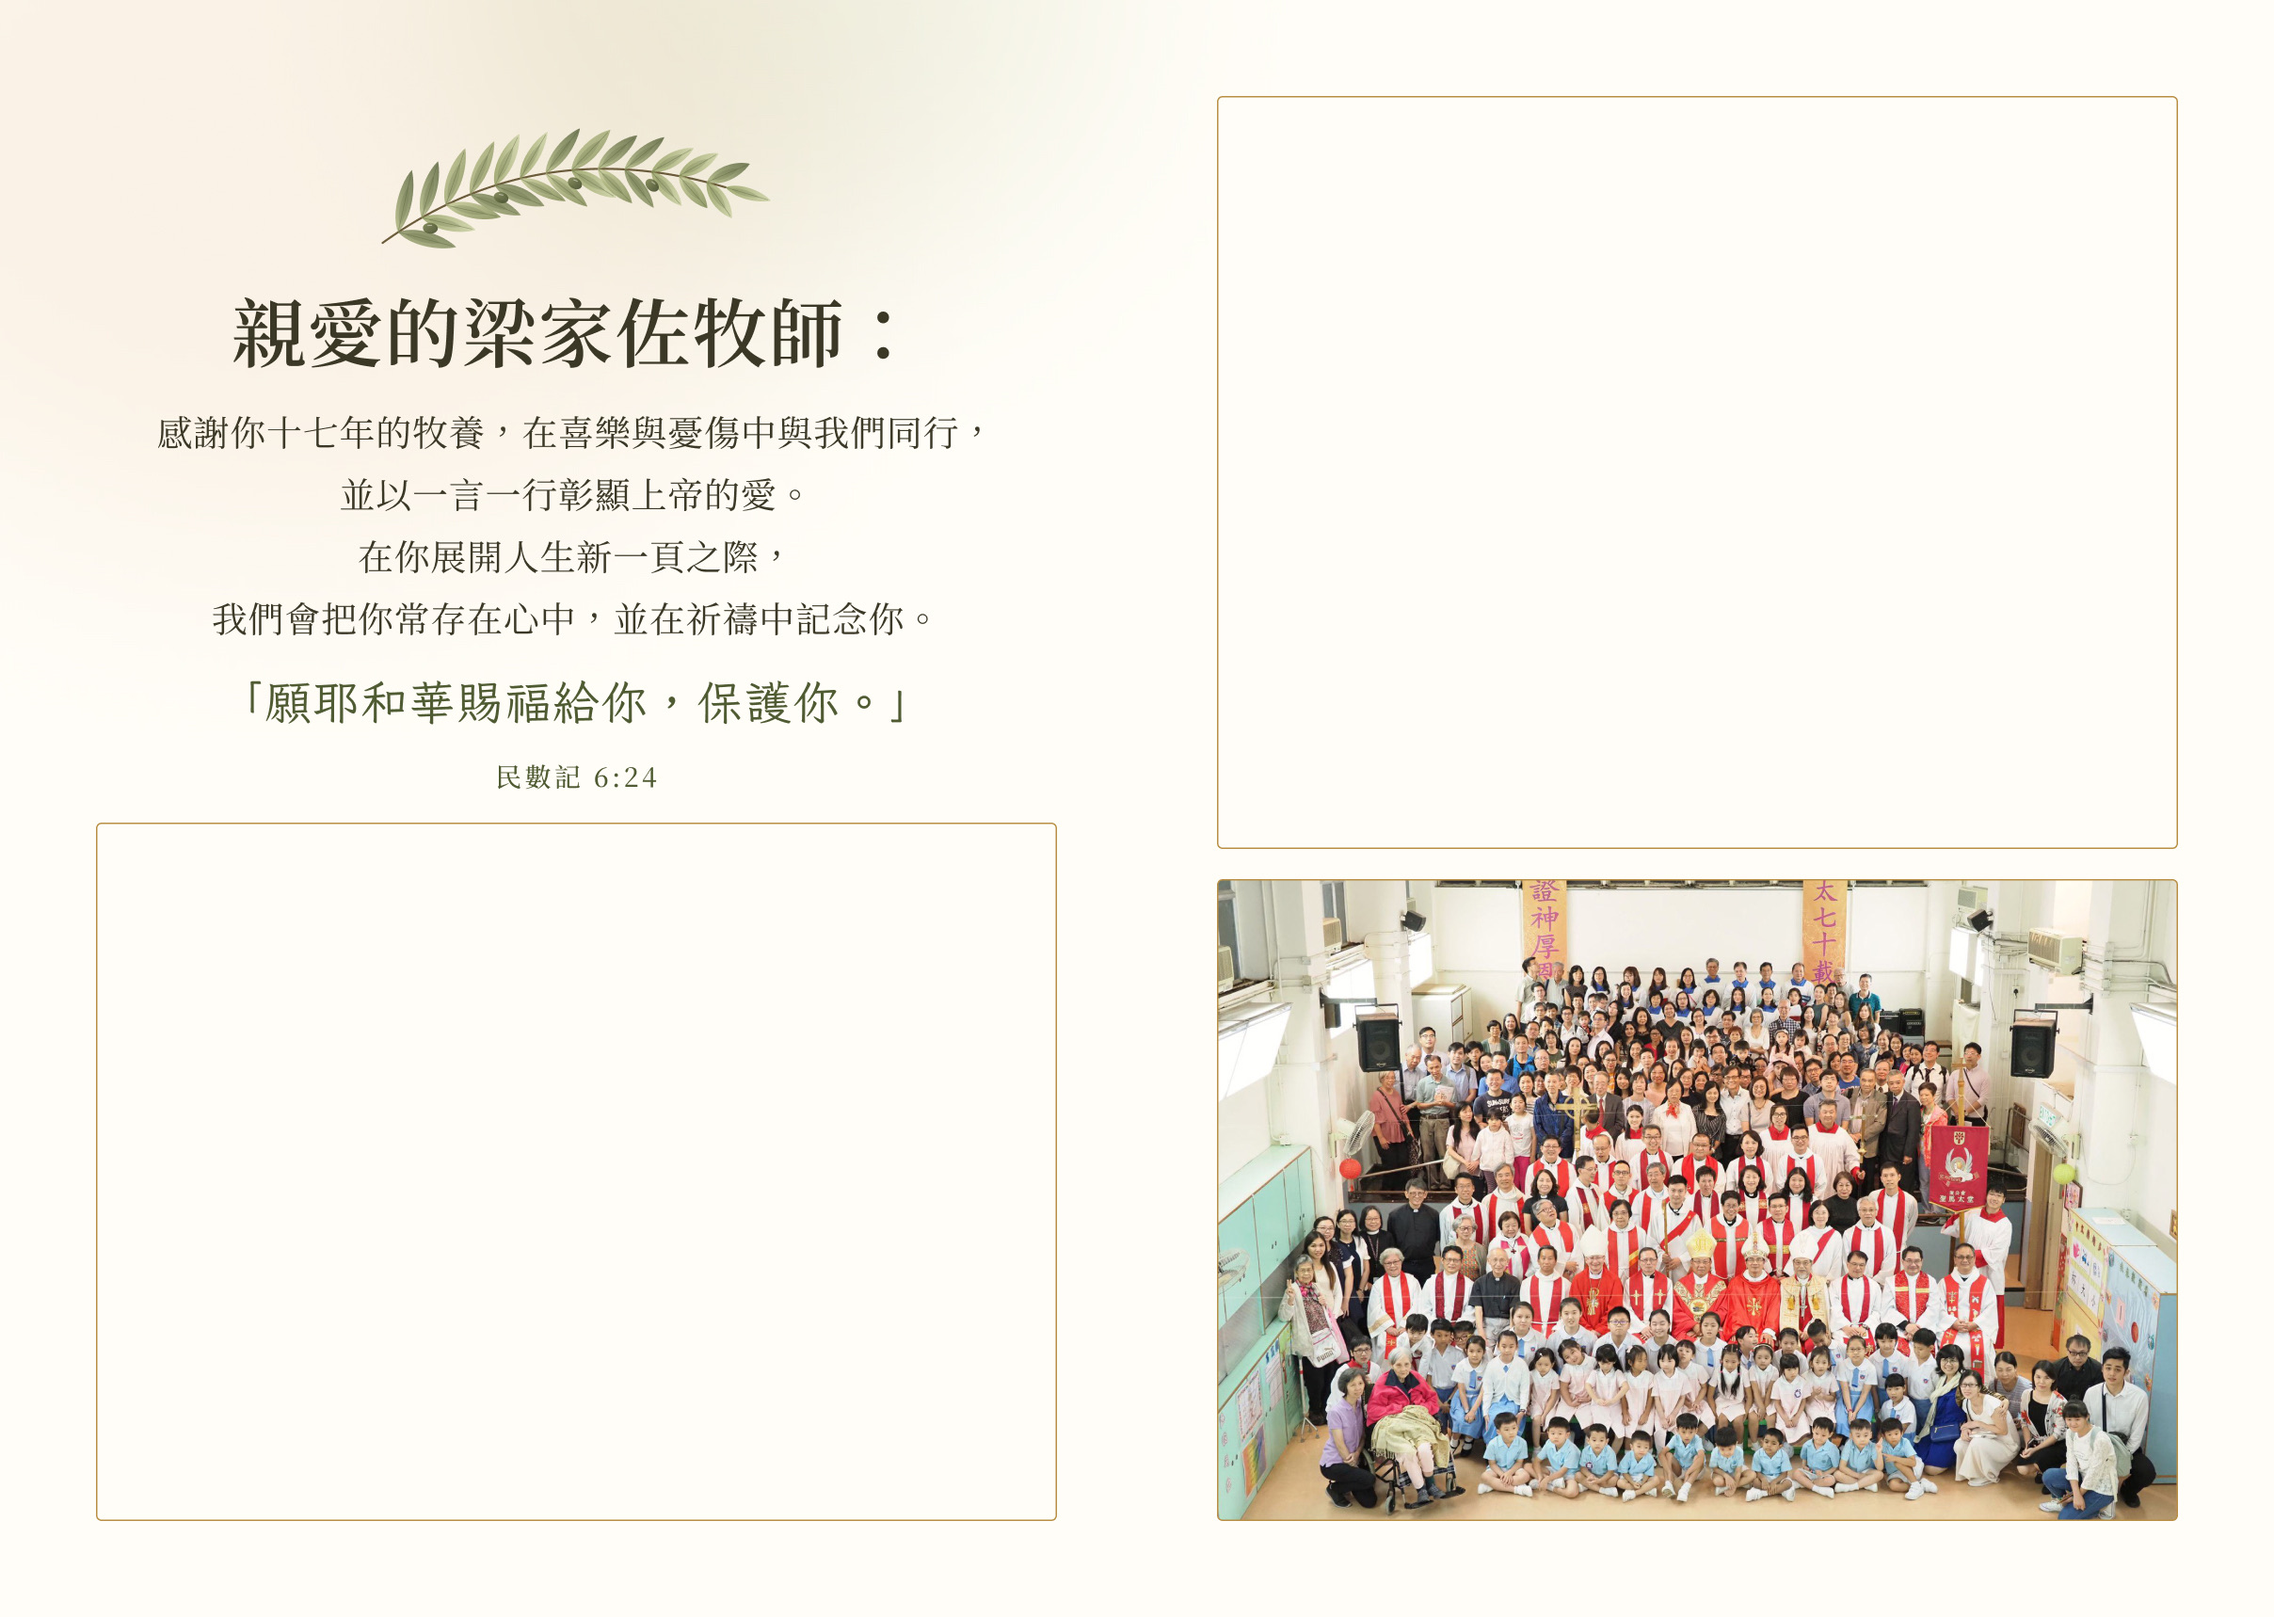
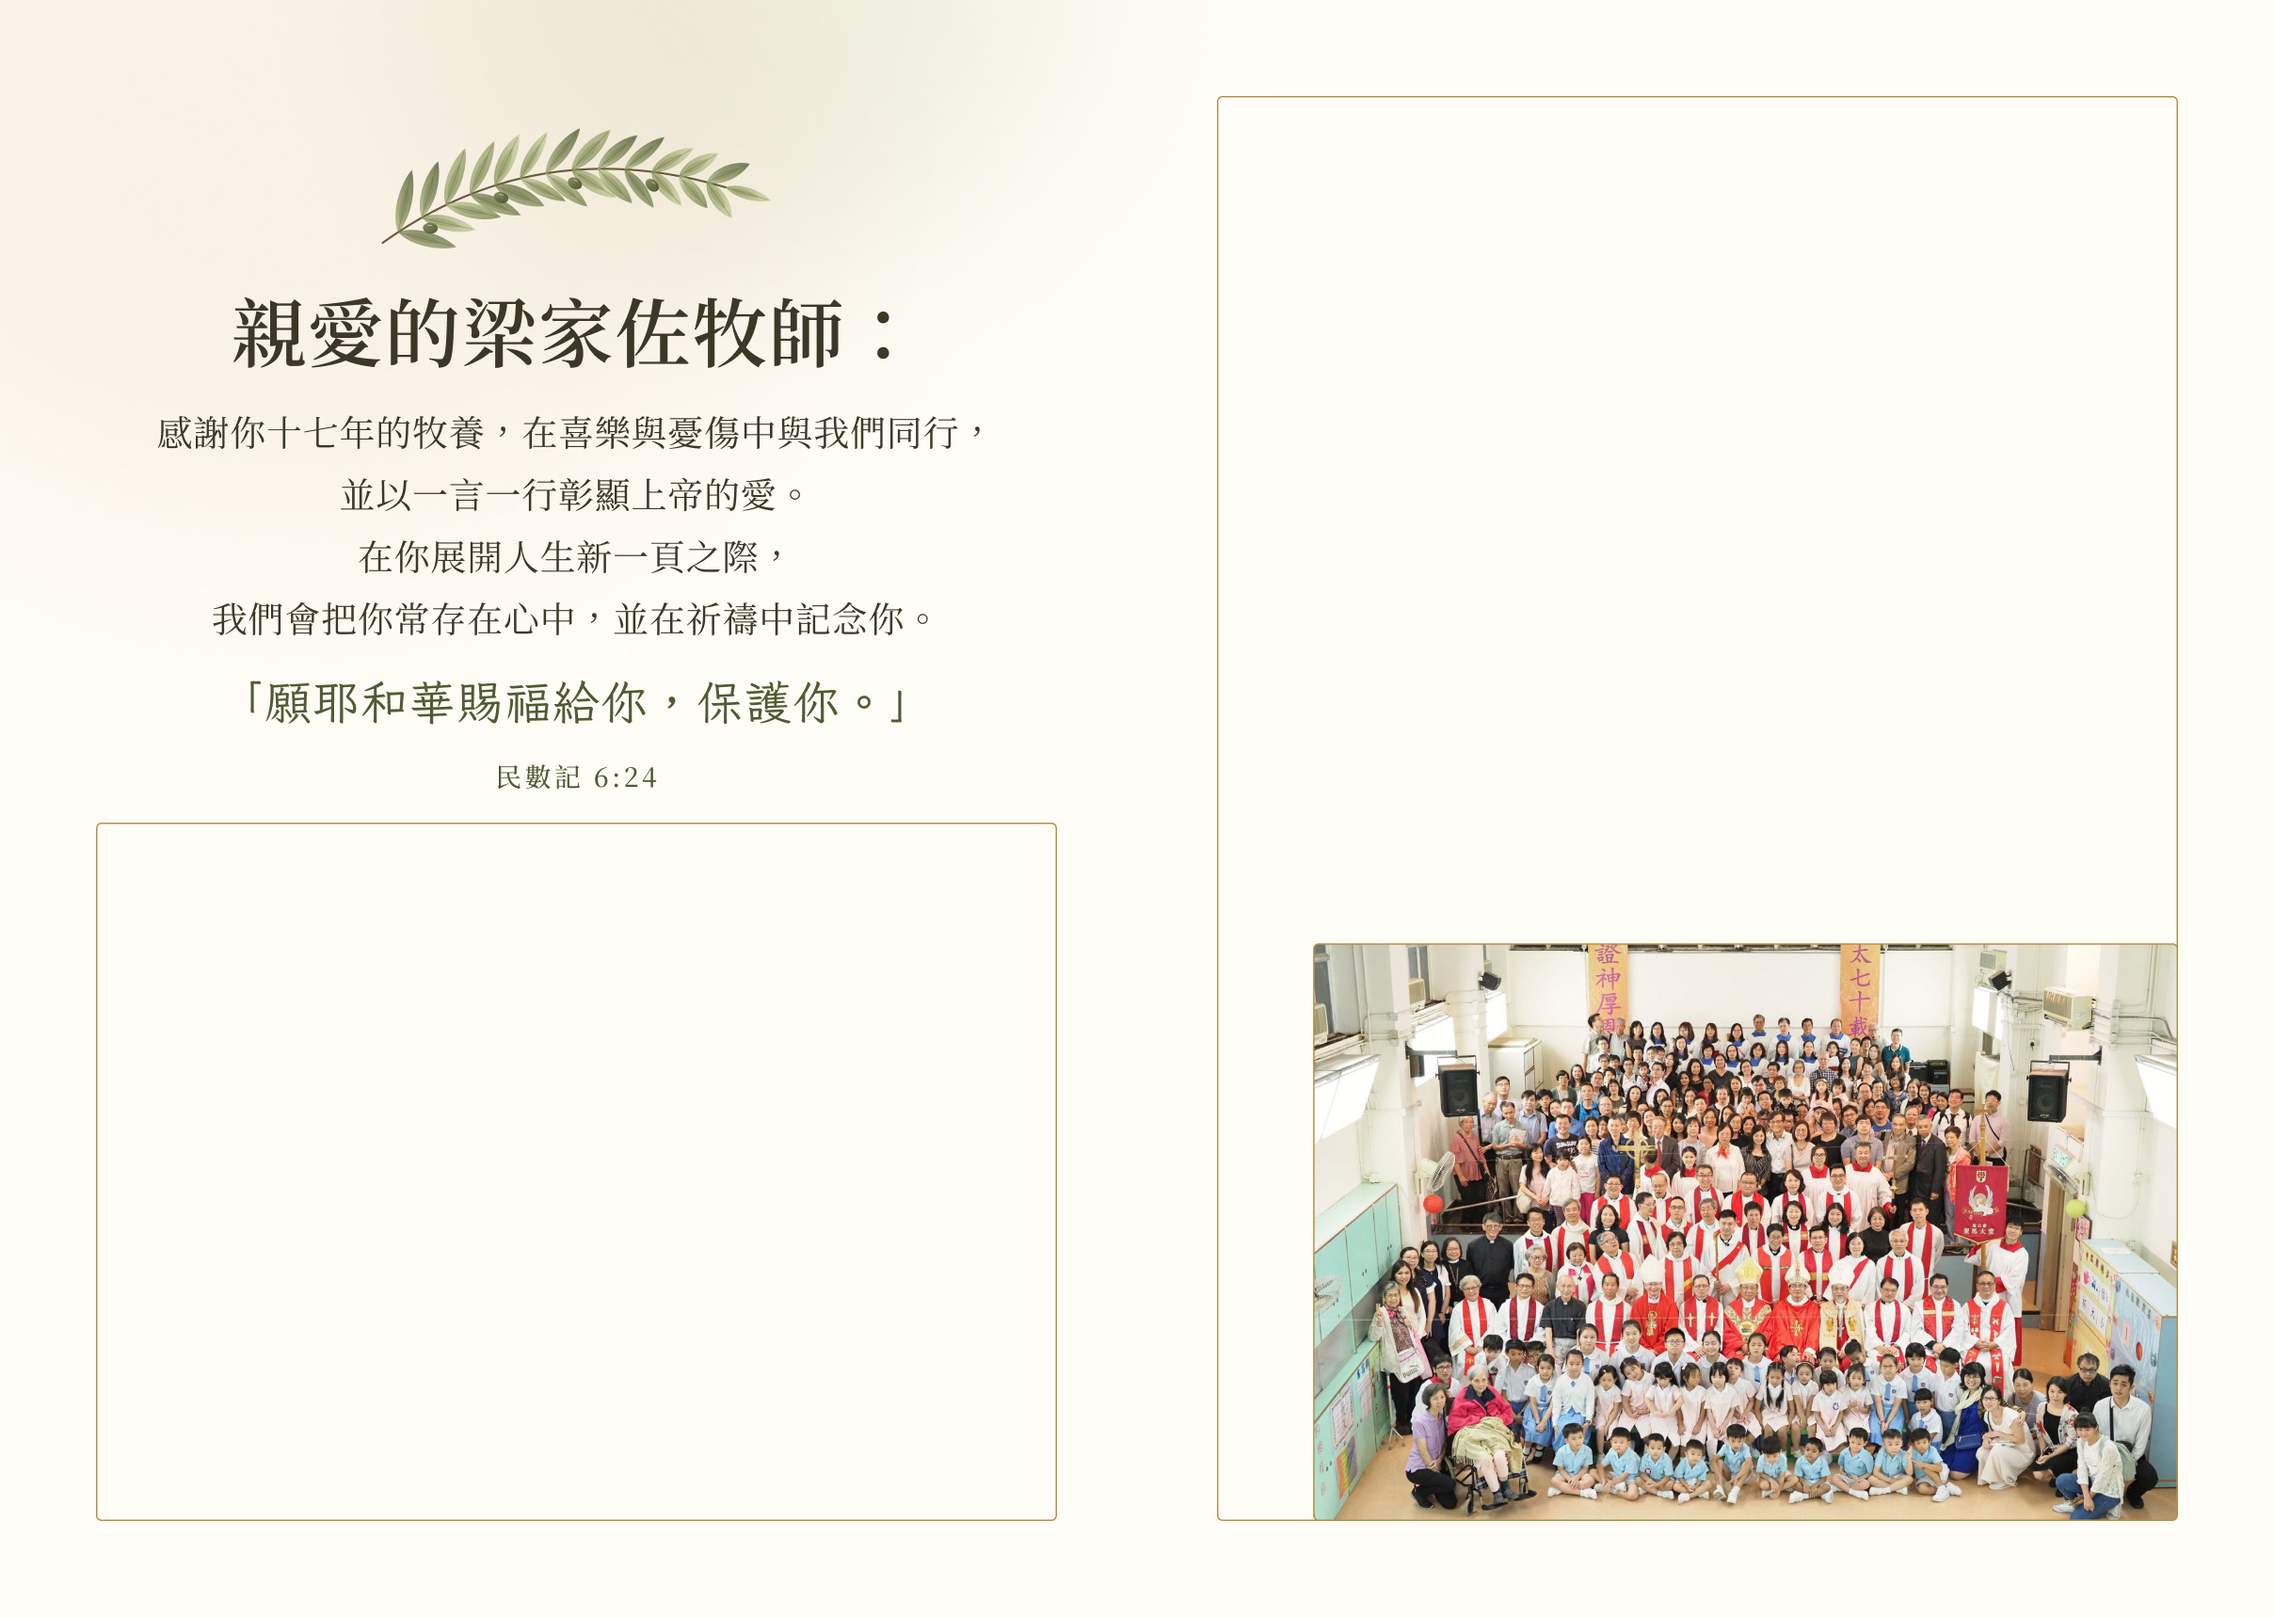
Enlarge the cover wreath and place the page 3 and 4 photos inside their frames

Changed region(s): [[0.5277, 0.5244, 0.9623, 0.9563]]

diff --git a/index.html b/index.html
@@ -127,8 +127,8 @@
       <div class="option" id="view-folded">
         <div class="card3d" id="card">
           <div class="leaf">
-            <div class="face fold-left"><img class="right-half" src="images/zh/a-inside.jpg" alt="摺疊卡內頁右側，上方是簽名區，下方是聖馬太堂七十周年大合照。"></div>
-            <div class="face face-reverse"><img class="left-half" src="images/zh/a-outside.jpg" alt="摺疊卡背面，上方是簽名框，中間是教友在禮堂的合照，下方是橄欖枝、獻辭和日期。"></div>
+            <div class="face fold-left"><img class="right-half" src="images/zh/a-inside.jpg" alt="摺疊卡內頁右側，簽名框右下角放著聖馬太堂七十周年大合照。"></div>
+            <div class="face face-reverse"><img class="left-half" src="images/zh/a-outside.jpg" alt="摺疊卡背面，簽名框右下角放著教友在聖堂內的合照，下方是橄欖枝、獻辭和日期。"></div>
           </div>
           <div class="leaf leaf-cover">
             <div class="face"><img class="right-half" src="images/zh/a-outside.jpg" alt="卡片封面，橄欖花環圍繞著梁牧師的相片，下方是「感謝你」和牧師的稱呼。"></div>
@@ -148,7 +148,7 @@
       <p class="summary" id="fact-summary">將 A3 紙對摺，打開方式就像傳統賀卡，內頁和背面都可以簽名。</p>
       <dl>
         <div><dt>完成尺寸</dt><dd id="fact-size">合上時 A4，打開時 A3</dd></div>
-        <div><dt id="fact-space-label">80 人的簽名空間</dt><dd id="fact-space">每人 9 平方厘米</dd></div>
+        <div><dt id="fact-space-label">80 人的簽名空間</dt><dd id="fact-space">每人 10 平方厘米</dd></div>
         <div><dt>最適合</dt><dd id="fact-good">讓牧師隨時打開重溫的紀念品</dd></div>
         <div><dt>請留意</dt><dd id="fact-mind">內頁的簽名在卡片合上時看不到</dd></div>
       </dl>
@@ -164,7 +164,7 @@
 
 <script>
   const OPTIONS = {
-    folded: { ratio: 842 / 595.5, title: '摺疊卡', summary: '將 A3 紙對摺，打開方式就像傳統賀卡，內頁和背面都可以簽名。', size: '合上時 A4，打開時 A3', space: '每人 9 平方厘米', good: '讓牧師隨時打開重溫的紀念品', mind: '內頁的簽名在卡片合上時看不到' },
+    folded: { ratio: 842 / 595.5, title: '摺疊卡', summary: '將 A3 紙對摺，打開方式就像傳統賀卡，內頁和背面都可以簽名。', size: '合上時 A4，打開時 A3', space: '每人 10 平方厘米', good: '讓牧師隨時打開重溫的紀念品', mind: '內頁的簽名在卡片合上時看不到' },
     reference: { ratio: 1587 / 1123, title: '祝福留言頁（僅供參考）', summary: '這是另一款留言頁設計，只作參考。', size: 'A3 直式', spaceLabel: '留言空間', space: '12 個留言格', good: '寫下祝福或畫畫送給牧師', mind: '僅供參考，不列入印製選擇' }
   };
   const LABELS = { open: '打開卡片', close: '合上卡片', back: '查看背面', front: '查看正面' };
